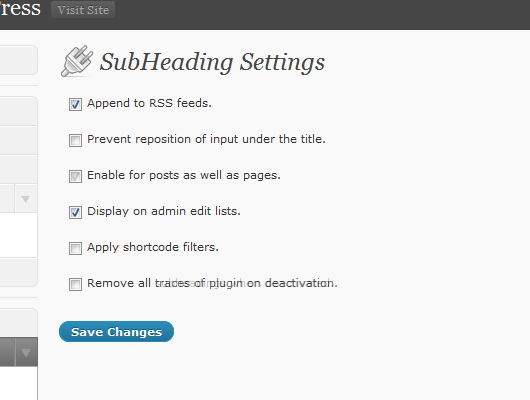
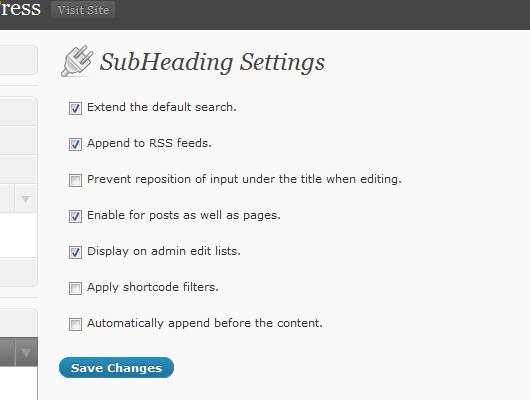
Added ability to allow subheading to be searched. Bug fixed where multiple subheadings could be stored for a single post.
git-svn-id: https://plugins.svn.wordpress.org/subheading/trunk@321087 b8457f37-d9ea-0310-8a92-e5e31aec5664

diff --git a/index.php b/index.php
@@ -3,7 +3,7 @@
 Plugin Name: SubHeading
 Plugin URI: http://wordpress.org/extend/plugins/subheading/
 Description: Adds the ability to show a subheading for posts and pages using a custom field. To display subheadings place <code>&lt;?php the_subheading(); ?&gt;</code> in your template file. 
-Version: 1.4.2
+Version: 1.5
 Author: 36Flavours
 Author URI: http://36flavours.com
 */
@@ -35,12 +35,16 @@ if (!class_exists('SubHeading')) {
 				add_filter('the_title_rss', array(&$this, 'rss'));
 				add_filter('the_subheading', array(&$this, 'build'), 1);
 				add_filter('the_content', array(&$this, 'prepend'));
+				if (isset($this->options['search'])) {
+					add_action('posts_where_request', array(&$this, 'search'));
+				}
 			}
 		}
 		function activate()
 		{
 			if (!$this->options) {
 				update_option($this->tag, array(
+					'search' => 1,
 					'posts' => 1,
 					'rss' => 1,
 					'lists' => 1,
@@ -110,7 +114,7 @@ if (!class_exists('SubHeading')) {
 			if (empty($subHeading)) {
 				delete_post_meta($post_id, $this->meta_key, $subHeading);
 			} else if (!update_post_meta($post_id, $this->meta_key, $subHeading)){
-				add_post_meta($post_id, $this->meta_key, $subHeading);
+				add_post_meta($post_id, $this->meta_key, $subHeading, true);
 			}
 		}
 		function value($id=false)
@@ -219,6 +223,24 @@ if (!class_exists('SubHeading')) {
 				);
 			}
 			return $links;
+		}
+		function search($where)
+		{
+			if (is_search()) {
+				global $wpdb, $wp;
+				$where = preg_replace(
+					"/\({$wpdb->posts}.post_title (LIKE '%{$wp->query_vars['s']}%')\)/i",
+					"$0 OR ($wpdb->postmeta.meta_value $1)",
+					$where
+				);
+				add_filter('posts_join_request', array(&$this, 'search_join'));
+			}
+			return $where;
+		}
+		function search_join($join)
+		{
+			global $wpdb;
+			return $join .= " LEFT JOIN $wpdb->postmeta ON ($wpdb->postmeta.meta_key = '_{$this->tag}' AND $wpdb->posts.ID = $wpdb->postmeta.post_id) ";
 		}
 	}
 	$subHeading = new SubHeading();

diff --git a/settings.php b/settings.php
@@ -13,6 +13,14 @@ if (array_key_exists('updated', $_GET)) :
 		<table class="form-table">
 			<tr valign="top">
 				<td>
+					<label for="subheading[search]">
+						<input name="subheading[search]" type="checkbox" id="subheading[search]" value="1" <?php if (array_key_exists('search', $this->options)) { checked('1', $this->options['search']); } ?> />
+						Extend search to include SubHeadings.
+					</label>
+				</td>
+			</tr>
+			<tr valign="top">
+				<td>
 					<label for="subheading[rss]">
 						<input name="subheading[rss]" type="checkbox" id="subheading[rss]" value="1" <?php if (array_key_exists('rss', $this->options)) { checked('1', $this->options['rss']); } ?> />
 						Append to RSS feeds.
